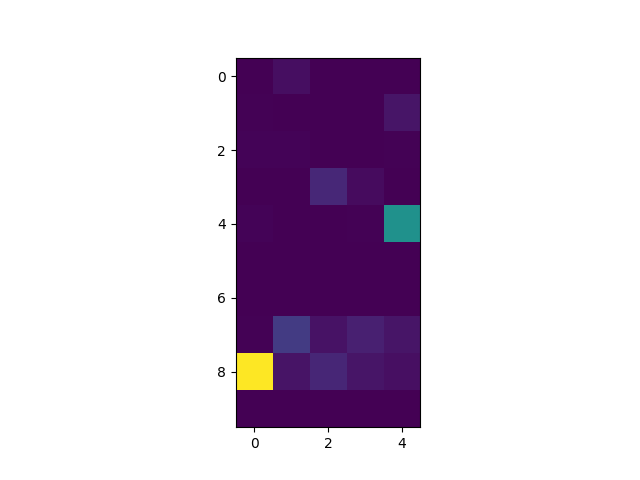
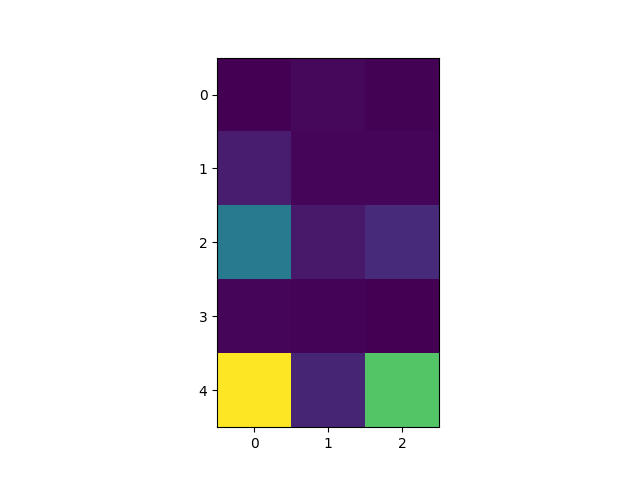
12/17 1:26

Changed region(s): [[0.3125, 0.0938, 0.6875, 0.9375]]

diff --git a/multi.py b/multi.py
@@ -7,7 +7,7 @@ from grid_world import GridWorld
 from qlearning_agent import Summon
 
 # 定数
-NB_EPISODE = 5   # エピソード数
+NB_EPISODE = 3   # エピソード数
 X_MAX = 15
 Y_MAX = 18
 POPULATION = 10
@@ -21,34 +21,32 @@ if __name__ == '__main__':
     summon = Summon(    # エージェントの召喚
         zero_list=grid_env.zero_list,
         population=POPULATION)
-    print("StaRt")
+    print(f"StaRt time = {time.time()-start}")
     #times = np.zeros((POPULATION,NB_EPISODE))
     episode_reward = np.zeros((POPULATION,NB_EPISODE))  # 1エピソードの累積報酬
     for episode in range(NB_EPISODE):   # 実験
         is_end_episode = np.zeros(POPULATION)
-        for i in range(POPULATION):
-            start_x = summon.agents[i].observation[0]
-            start_y = summon.agents[i].observation[1]
+        for i in summon.agents:
+            start_x = i.observation[0]
+            start_y = i.observation[1]
             grid_env.map[start_x][start_y] = 3
         while(np.all(is_end_episode) == False):    # 全員がゴールするまで続ける
-            for id in range(POPULATION):
+            for id,agent in enumerate(summon.agents):
                 if is_end_episode[id] == False:
-                    start_x = summon.agents[id].observation[0]
-                    start_y = summon.agents[id].observation[1]
-                    grid_env.map[start_x][start_y] = 0
-                    action = summon.agents[id].act()  # 行動選択
+                    start_x = agent.observation[0]
+                    start_y = agent.observation[1]
+                    grid_env.map[start_x,start_y] = 0
+                    action = agent.act()  # 行動選択
                     state, reward, is_end_episode[id] = grid_env.step(start_x, start_y, action)
                     grid_env.map[state[0]][state[1]] = 3
-                    summon.agents[id].observe(state, reward)   # 状態と報酬の観測 
+                    agent.observe(state, reward)   # 状態と報酬の観測 
                     episode_reward[id][episode] += 1
-                else:grid_env.map[0][0] = 1
-        plt.imshow(episode_reward)
-        plt.savefig("result.png")
-        plt.show()
-        for id in range(POPULATION):
-            summon.agents[id].observation = grid_env.reset(summon.agents[id].init_pos)  # 初期化
+                else:grid_env.map[0,0] = 1
+        for id in summon.agents:
+            id.observation = grid_env.reset(id.init_pos)  # 初期化
             #print(summon.agents[id].observation)
         #agent.observe(state)    # エージェントを初期位置に
-        print(f"EP.{episode +1} End") #(t = {len(episode_reward)})"
-        # 所要時間の計算
-        print(f"time = {time.time()-start}")
+        print(f"EP.{episode +1} End time = {time.time()-start}") #(t = {len(episode_reward)})"# 所要時間の計算
+    plt.imshow(episode_reward)
+    plt.savefig(f"result.png")
+    plt.show()
